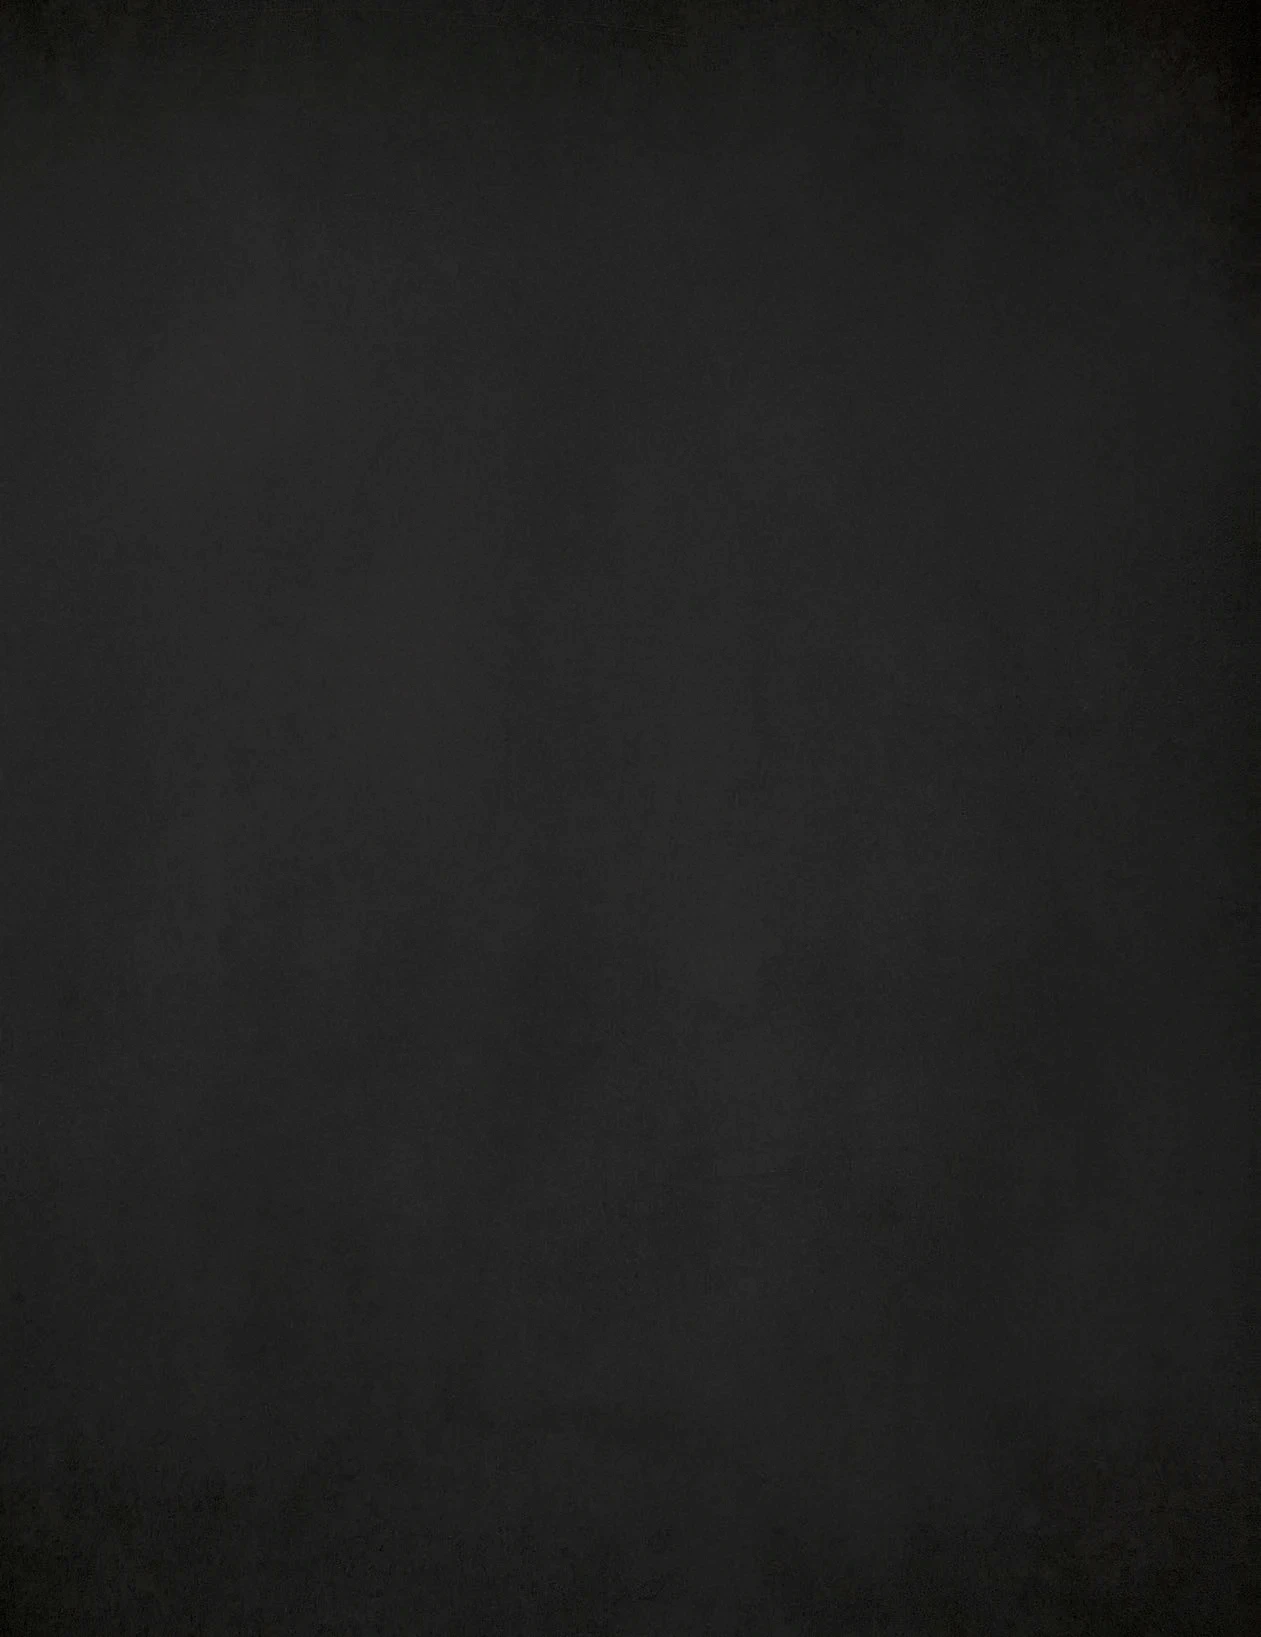
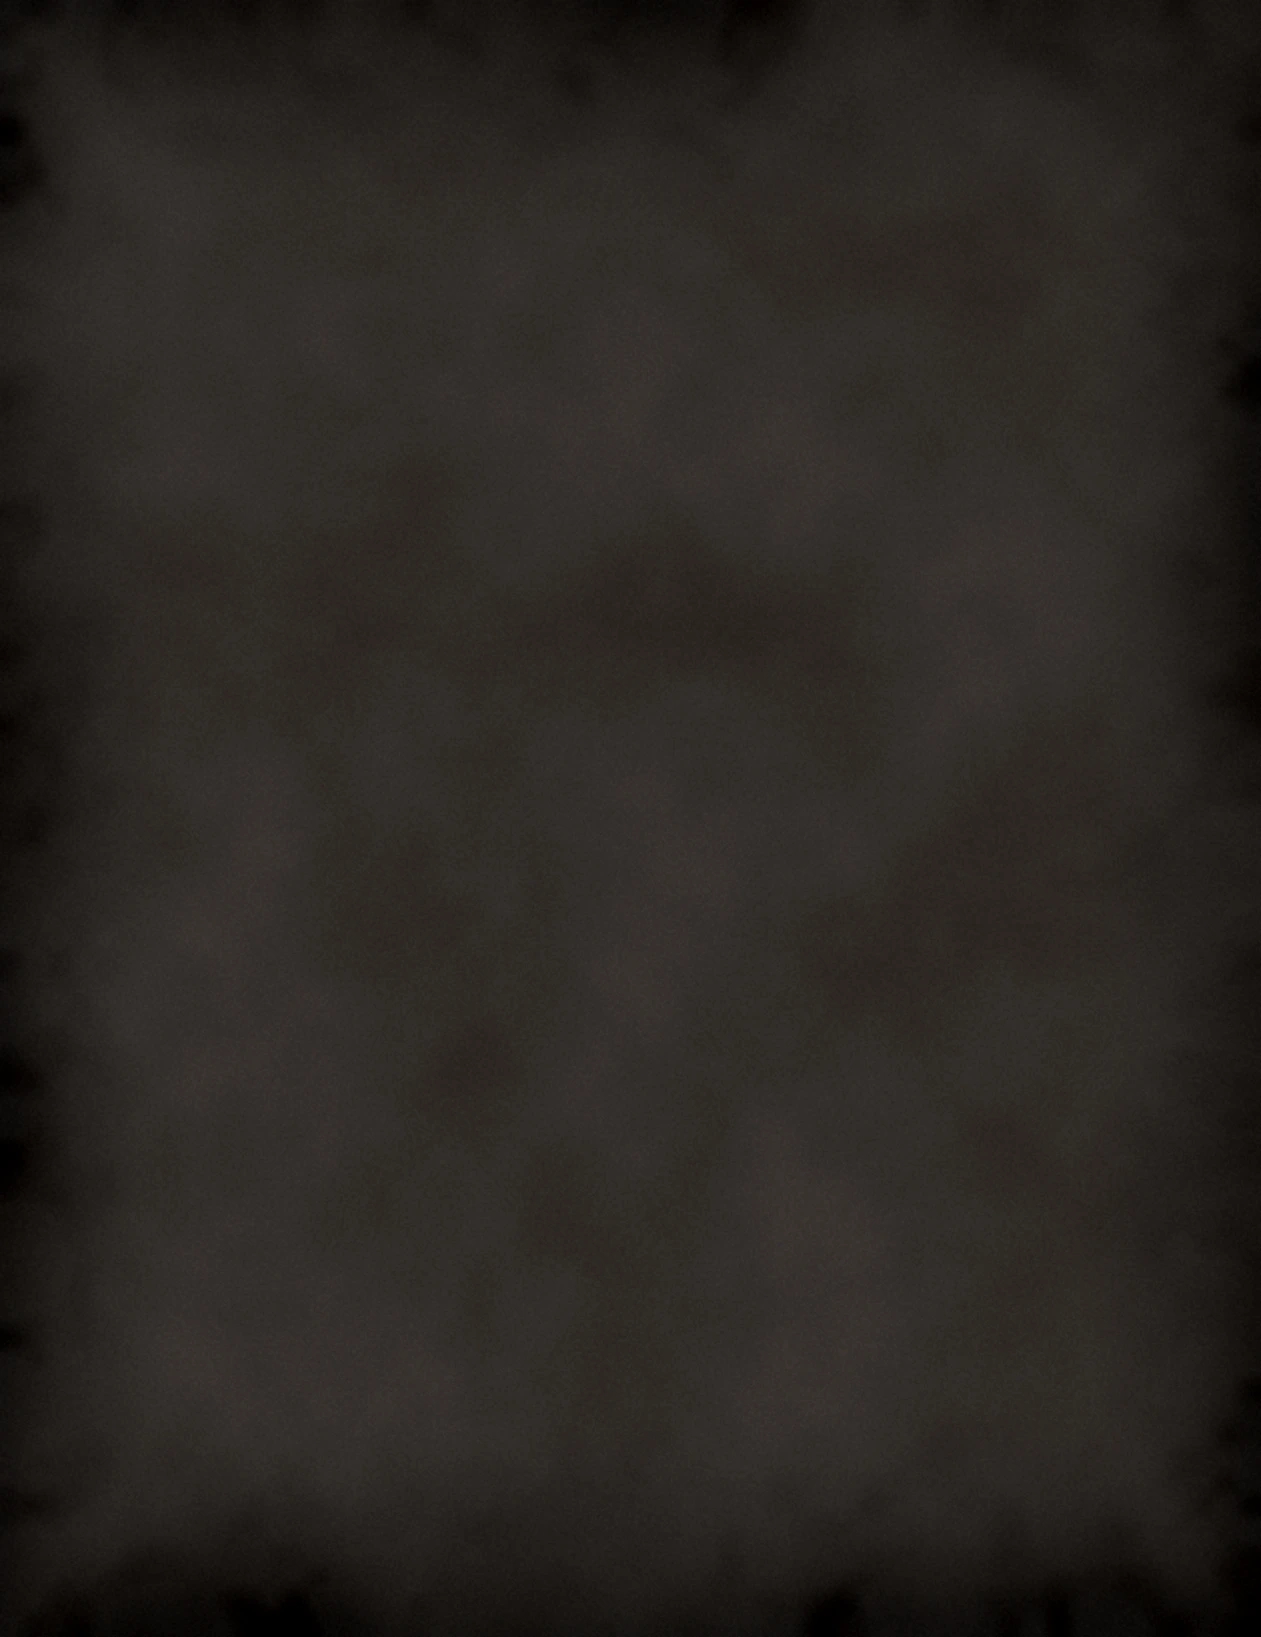
feat: acessos ao Painel de Engenhocas e às automações dentro da Ficha Hayd
Os painéis do t20-hayd-gmtools deixam de ser injetados: a ficha monta os
botões com o visual dela (Engenhocas na barra da aba Magias, Gerenciar
automações em Efeitos) e esconde o painel original. Inclui os rótulos nos
dois idiomas, o reset da margem dos ícones, fundos atualizados e testes.

diff --git a/styles/ficha-hayd.css b/styles/ficha-hayd.css
@@ -118,6 +118,18 @@
     line-height: 1;
     font-size: 13px;
 }
+/* O core do Foundry tem `body.game .app button > i { margin-right: 3px }`
+   (foundry2.css), pensado para botão com ícone E rótulo. Em botão só-de-ícone
+   essa margem joga o glifo 3px para a esquerda do centro — invisível num
+   ícone largo, escancarado num redondo como o fa-sun do "Resetar engenhocas".
+   Nos que têm rótulo, quem dá o espaçamento é o `gap`, não a margem.
+   A especificidade precisa passar de (0,2,3): daí o `.hf-ficha` no meio. */
+.hayd-ficha .hf-ficha .hf-botao-icone > i,
+.hayd-ficha .hf-ficha .hf-cadeado > i,
+.hayd-ficha .hf-ficha .hf-botao > i {
+    margin: 0;
+}
+
 .hayd-ficha .hf-botao-icone:hover,
 .hayd-ficha .hf-cadeado:hover {
     color: #fff;
@@ -1104,9 +1116,19 @@
     align-items: center;
     gap: 6px;
 }
+/* Quem cede espaço na barra é a busca, nunca os botões: a aba Magias chega a
+   ter sete controles aqui e, no modo slim, os de 30px encolhiam abaixo disso —
+   a caixa espremida cortava o ícone e ele parecia descentralizado. */
+.hayd-ficha .hf-barra-ferramentas > .hf-botao-icone,
+.hayd-ficha .hf-barra-ferramentas > .hf-botao {
+    flex: 0 0 auto;
+}
 .hayd-ficha .hf-busca {
     position: relative;
     flex: 1;
+    /* Sem isto a busca não desce do tamanho do conteúdo e a sobra vira o
+       encolhimento dos botões de novo. */
+    min-width: 0;
     display: flex;
     align-items: center;
 }
@@ -2848,3 +2870,38 @@
 /* Busca nas perícias: mesmo estilo da busca das listas, mais compacta */
 .hayd-ficha .hf-busca-pericias { margin: 0 0 6px; }
 .hayd-ficha .hf-busca-pericias input { height: 26px; font-size: 12px; }
+
+/* ==========================================================================
+   Acessos do t20-hayd-gmtools (montados pela ficha, ver integracao-gmtools.mjs)
+   ========================================================================== */
+
+/* A aba Efeitos não tem busca para esticar, então o botão encosta na direita,
+   alinhado com os controles de cada seção logo abaixo. */
+.hayd-ficha .hf-barra-automacoes {
+    justify-content: flex-end;
+}
+
+/* O número de engenhocas vira parte do botão, como a contagem das abas */
+.hayd-ficha .hf-botao .hf-contagem {
+    margin-left: 2px;
+    background: rgba(0, 0, 0, 0.45);
+    border-color: var(--hf-acento-borda);
+}
+.hayd-ficha .hf-botao:hover .hf-contagem {
+    background: rgba(0, 0, 0, 0.3);
+    border-color: var(--hf-acento-claro);
+}
+
+/* "Resetar engenhocas" é um dia novo inteiro: fica em ícone, ao lado do painel */
+.hayd-ficha .hf-gm-engenhocas-resetar[disabled] {
+    opacity: 0.5;
+    pointer-events: none;
+}
+
+/* O painel que o GMTools injetaria por conta própria não deve aparecer aqui:
+   a ficha já monta o acesso dela, e dois caminhos para a mesma janela
+   confundem (e o visual do outro módulo não acompanha o tema da ficha). */
+.hayd-ficha .t20g-eng-painel,
+.hayd-ficha .t20g-contadores-ficha {
+    display: none;
+}

diff --git a/README.md b/README.md
@@ -2,7 +2,7 @@
 
 # T20 Hayd UI
 
-Tema visual moderno e sombrio para o sistema **Tormenta20** no FoundryVTT: fichas de personagem, NPC e itens, mensagens de chat e janelas de uso ganham um visual escuro glassmórfico, com a cor de destaque herdada automaticamente da cor do jogador dono da ficha.
+Tema visual reformulado para o sistema **Tormenta20** no FoundryVTT: fichas de personagem, NPC e itens, mensagens de chat e janelas de uso ganham um visual novo, com a cor de destaque herdada automaticamente da cor do jogador dono da ficha.
 
 ## Requisitos
 
@@ -31,15 +31,7 @@ Três temas visuais à escolha, por usuário:
 
 ### Ficha Hayd
 
-Uma ficha de personagem nova, com organização própria, inspirada na [Tidy 5e Sheets](https://github.com/kgar/foundry-vtt-tidy-5e-sheets). Para usar, abra a ficha, clique em **Configurar Ficha** no cabeçalho e escolha **Ficha Hayd**. Ela funciona mesmo com o tema desligado, e rolagens, efeitos, equipar e arrastar itens continuam sendo os do sistema.
-
-- **Cabeçalho**: retrato, nível, raça, classes, origem e divindade, barra de XP, PV e PM em barras que aceitam `+5`, `-3` ou um valor direto (Esc desfaz), Defesa, atributos (clique para rolar), deslocamento, CD de magias e tamanho.
-- **Cadeado**: bloqueada, a ficha só mostra o que se usa em jogo. Desbloqueada, aparecem os campos de edição, o treino e o atributo das perícias, a criação de itens por seção e os botões de editar e excluir.
-- **Barra lateral recolhível**: perícias (clique para rolar) e traços (tamanho, movimento, resistências, sentidos, idiomas, proficiências, recursos extras e anotações).
-- **Abas**: Combate (ataques e habilidades agrupados pela execução: padrão, movimento, reação…), Inventário (quantidade com − / +, guardar fora da carga, carga e moedas), Poderes (por tipo), Magias (por círculo, com CD e atributo-chave), Efeitos (condições em um clique e efeitos ativos) e Diário.
-- **Em todas as listas**: busca, seções recolhíveis, descrição que abre ao clicar no nome, **fixar** itens no topo do Combate e o botão ⋮ com o mesmo menu do clique direito.
-
-A aba aberta, a barra lateral e as seções recolhidas ficam guardadas por usuário.
+Uma ficha de personagem nova, com organização própria, inspirada na [Tidy 5e Sheets](https://github.com/kgar/foundry-vtt-tidy-5e-sheets). Para usar, abra a ficha, clique em **Configurar Ficha** no cabeçalho e escolha **Ficha Hayd**. Ela funciona mesmo com o tema desligado.
 
 ### Cor da ficha
 
@@ -55,7 +47,7 @@ Cada usuário pode trocar o padrão de fundo só para si: deixar todas as mensag
 
 Para lembrar em que nível e de onde veio cada poder e magia do personagem. Um ícone discreto ao lado do título **Poderes** abre uma tela com tudo agrupado por nível: em cada linha, uma **categoria** (Raça, Origem, Complicação, Devoção, Nível, Bônus ou qualquer outra que você digitar, como uma regra da sua mesa) e o **nível** em que foi obtido. Poderes que o sistema já marca como raciais, de origem, de complicação ou concedidos chegam com uma sugestão preenchida. Na ficha, cada poder anotado ganha só uma legenda pequena abaixo do nome (ex.: "Nv 1 · Origem").
 
-É só organização: nada muda nas regras, nas rolagens nem na ordem da lista. Cada usuário escolhe entre o organizador, o **selo legado** (o selo clicável antes do ícone de cada poder) ou nada; o Mestre pode desligar para o mundo inteiro. Desligar, em qualquer um dos dois, só esconde o botão, as etiquetas e o selo: as anotações continuam guardadas. As anotações feitas com o selo antigo continuam valendo.
+É só organização: nada muda nas regras, nas rolagens nem na ordem da lista.
 
 ### Configurações
 
@@ -64,7 +56,6 @@ Em *Configurar → Configurações → T20 Hayd UI*: ativar/desativar o tema (po
 ## Detalhes adicionais
 
 - Não modifica o código do sistema — apenas CSS sobreposto e hooks de renderização do Foundry; pode ser desativado a qualquer momento sem afetar dados.
-- Módulos compatíveis: **t20-hayd-loja**, **t20-hayd-bases** e **t20-hayd-dominios** detectam o tema e adotam o mesmo visual automaticamente (por ora, alinhados ao visual do Dark Neon).
 - Como a cor é resolvida: modo padrão usa a cor do mundo; modo automático usa a cor do primeiro dono jogador; mensagens de chat priorizam a cor do ator que fala; janelas de uso usam a cor do usuário logado.
 
 ---
